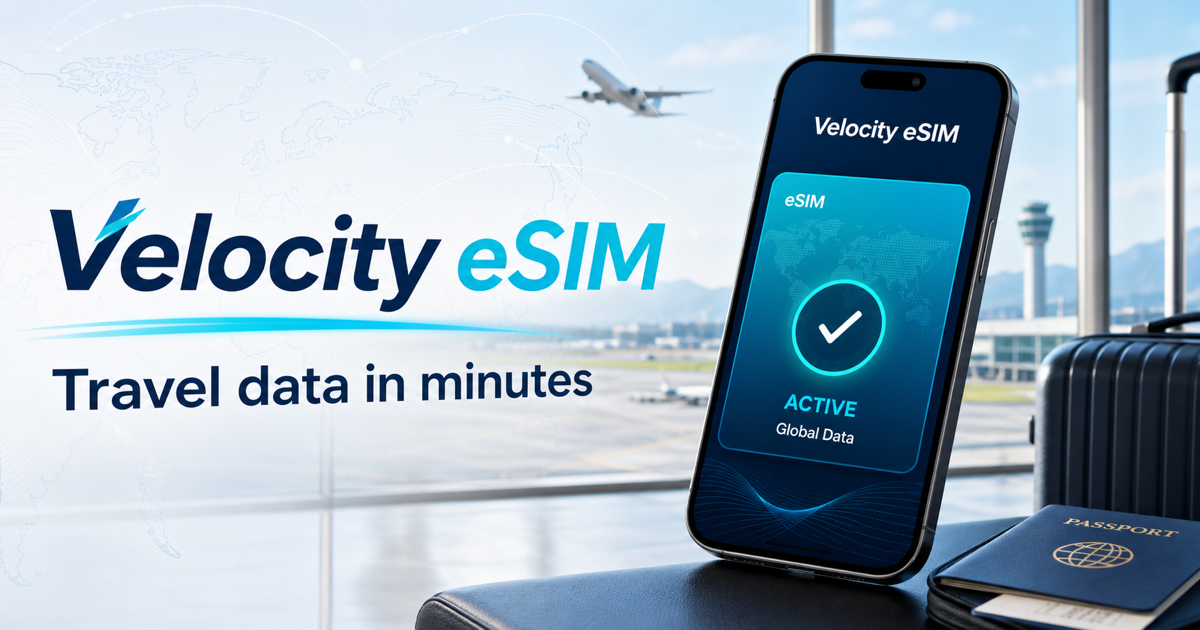
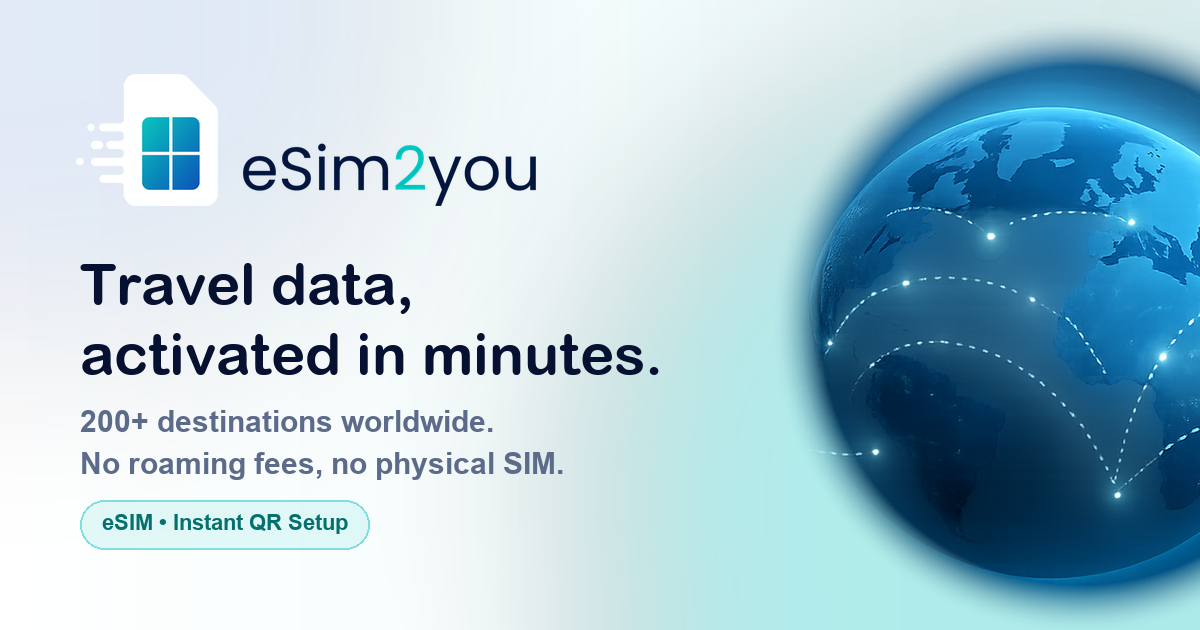
feat: refresh OG share image with current eSim2you branding
Replaces the stale Velocity-branded preview image with the current
logo, colors, and copy, and bumps the OG image URL version so social
platforms re-scrape instead of serving their cached old preview.

diff --git a/src/lib/seo.ts b/src/lib/seo.ts
@@ -5,8 +5,12 @@ import { publicSeoPages, type SeoPageFaq } from "@/content/seo-pages";
 export const siteUrl = "https://esim.uplisoft.com";
 export const siteName = "eSim2you";
 export const supportEmail = "esim@uplisoft.com";
+// Bump this whenever public/og/esim2you-og.png changes so link-preview
+// crawlers (iMessage, WhatsApp, Slack, Facebook, LinkedIn, X) fetch the
+// new image instead of serving a stale cached copy of the old URL.
+const ogImageVersion = "3";
 export const ogImage = {
-  url: `${siteUrl}/og/esim2you-og.png`,
+  url: `${siteUrl}/og/esim2you-og.png?v=${ogImageVersion}`,
   width: 1200,
   height: 630,
   alt: "eSim2you travel data app preview"
